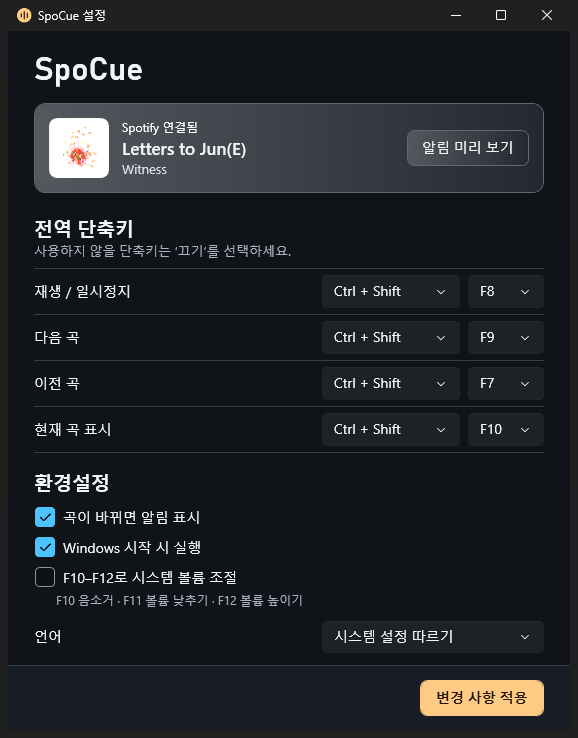
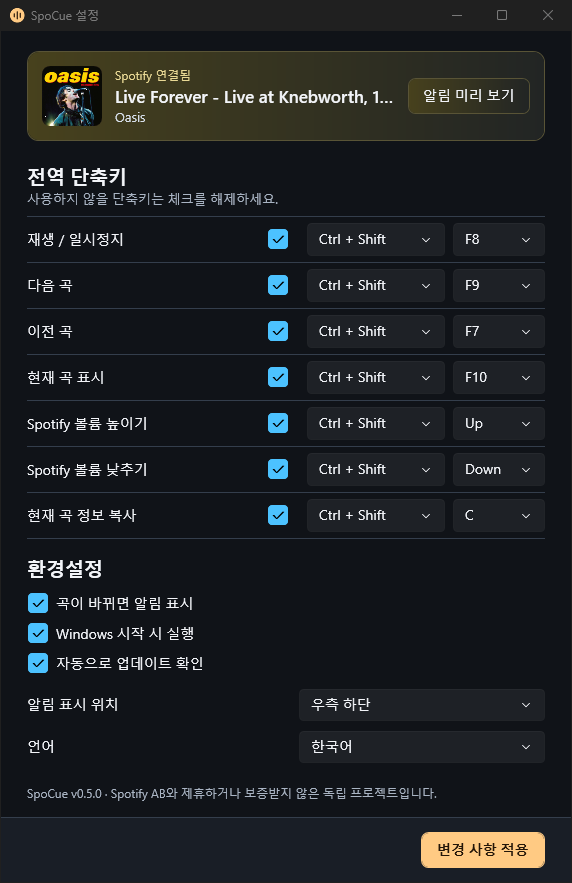
Polish toast typography and refresh README screenshots per language
- Toast title uses Segoe UI Variable Display at a smaller size; subtitle shrinks to 12
- Shorten the "playing on another device" toast title
- Recapture settings screenshots in English and Korean, and the track toast
- Point README.md at the English settings screenshot

diff --git a/src/TrackRelay/TrackToast.xaml b/src/TrackRelay/TrackToast.xaml
@@ -42,10 +42,10 @@
         </Grid.ColumnDefinitions>
         <local:ArtworkBadge x:Name="Cover" Width="62" Height="62" />
         <StackPanel Grid.Column="1" VerticalAlignment="Center" Margin="14,0,0,0">
-          <TextBlock x:Name="TrackTitle" FontFamily="{StaticResource DisplayFont}" FontSize="15.5"
-                     FontWeight="SemiBold" LineHeight="20" LineStackingStrategy="BlockLineHeight"
-                     MaxHeight="40" TextWrapping="Wrap" TextTrimming="CharacterEllipsis" />
-          <TextBlock x:Name="TrackSubtitle" Foreground="{DynamicResource MutedBrush}" FontSize="12.5"
+          <TextBlock x:Name="TrackTitle" FontFamily="{StaticResource DisplayFont}" FontSize="14"
+                     FontWeight="SemiBold" LineHeight="18" LineStackingStrategy="BlockLineHeight"
+                     MaxHeight="36" TextWrapping="Wrap" TextTrimming="CharacterEllipsis" />
+          <TextBlock x:Name="TrackSubtitle" Foreground="{DynamicResource MutedBrush}" FontSize="12"
                      Margin="0,3,0,0" TextTrimming="CharacterEllipsis" />
           <Grid x:Name="VolumeMeter" Height="4" Margin="0,8,0,0" Visibility="Collapsed">
             <Grid.ColumnDefinitions>

diff --git a/src/TrackRelay/Theme.xaml b/src/TrackRelay/Theme.xaml
@@ -10,7 +10,7 @@
   <SolidColorBrush x:Key="AccentSoftBrush" Color="#3D2B21" />
   <SolidColorBrush x:Key="ErrorBrush" Color="#FFADAA" />
   <FontFamily x:Key="BodyFont">Segoe UI</FontFamily>
-  <FontFamily x:Key="DisplayFont">Bahnschrift, Segoe UI</FontFamily>
+  <FontFamily x:Key="DisplayFont">Segoe UI Variable Display, Segoe UI</FontFamily>
 
   <Style TargetType="TextBlock">
     <Setter Property="Foreground" Value="{DynamicResource InkBrush}" />

diff --git a/src/TrackRelay/Strings.cs b/src/TrackRelay/Strings.cs
@@ -49,8 +49,8 @@ internal static class Strings
         ("StartupTitle", "SpoCue is running in the tray", "SpoCue가 트레이에서 실행 중입니다"),
         ("StartupNoticeTitle", "SpoCue started, but a setting needs attention", "SpoCue가 실행됐지만 확인할 설정이 있습니다"),
         ("StartupSubtitle", "Click to open settings.", "클릭하면 설정이 열립니다."),
-        ("SpotifyVolumeElsewhereTitle", "Spotify is playing on another device", "Spotify가 다른 기기에서 재생 중입니다"),
-        ("SpotifyVolumeElsewhereHint", "Change the volume on that device.", "볼륨은 재생 중인 기기에서 조절하세요."),
+        ("SpotifyVolumeElsewhereTitle", "Playing on another device", "다른 기기에서 재생 중입니다"),
+        ("SpotifyVolumeElsewhereHint", "Change Spotify's volume on that device.", "Spotify 볼륨은 그 기기에서 조절하세요."),
         ("TrackCopiedToast", "Copied to clipboard", "클립보드에 복사됨"),
         ("CopyTrackError", "Windows couldn’t copy the track info to the clipboard.", "곡 정보를 클립보드에 복사하지 못했습니다."),
         ("CheckUpdatesMenu", "Check for updates…", "업데이트 확인…"),

diff --git a/DESIGN.md b/DESIGN.md
@@ -12,7 +12,7 @@ SpoCue is a Windows tray tool for Spotify listeners working in another app. The 
 
 The source of truth is `src/TrackRelay/Theme.xaml`. Canvas and Surface use dark blue-gray, with amber for the primary action, connection status and artwork fallback. Ink and Muted set the reading order. Error is reserved for text that explains a recoverable failure. `App.xaml.cs` maps these roles to Windows system brushes in high contrast. WPF Fluent styles supply the native combo boxes and window chrome.
 
-Bahnschrift gives the product heading and toast titles a defined silhouette. Segoe UI handles body text, controls and Windows font fallback.
+Toast titles use Segoe UI Variable Display (Segoe UI on Windows 10) so track names read like native Windows UI. Segoe UI handles body text, controls and Windows font fallback, including Korean.
 
 ## Layout and behavior
 

diff --git a/README.md b/README.md
@@ -42,7 +42,7 @@ If you used **Toastify** years ago, you probably miss controlling Spotify from t
 </p>
 
 <p align="center">
-  <img src="문서/이미지/설정-화면.png" width="460" alt="SpoCue settings window" />
+  <img src="문서/이미지/설정-화면-en.png" width="460" alt="SpoCue settings window" />
 </p>
 
 ### At a Glance
